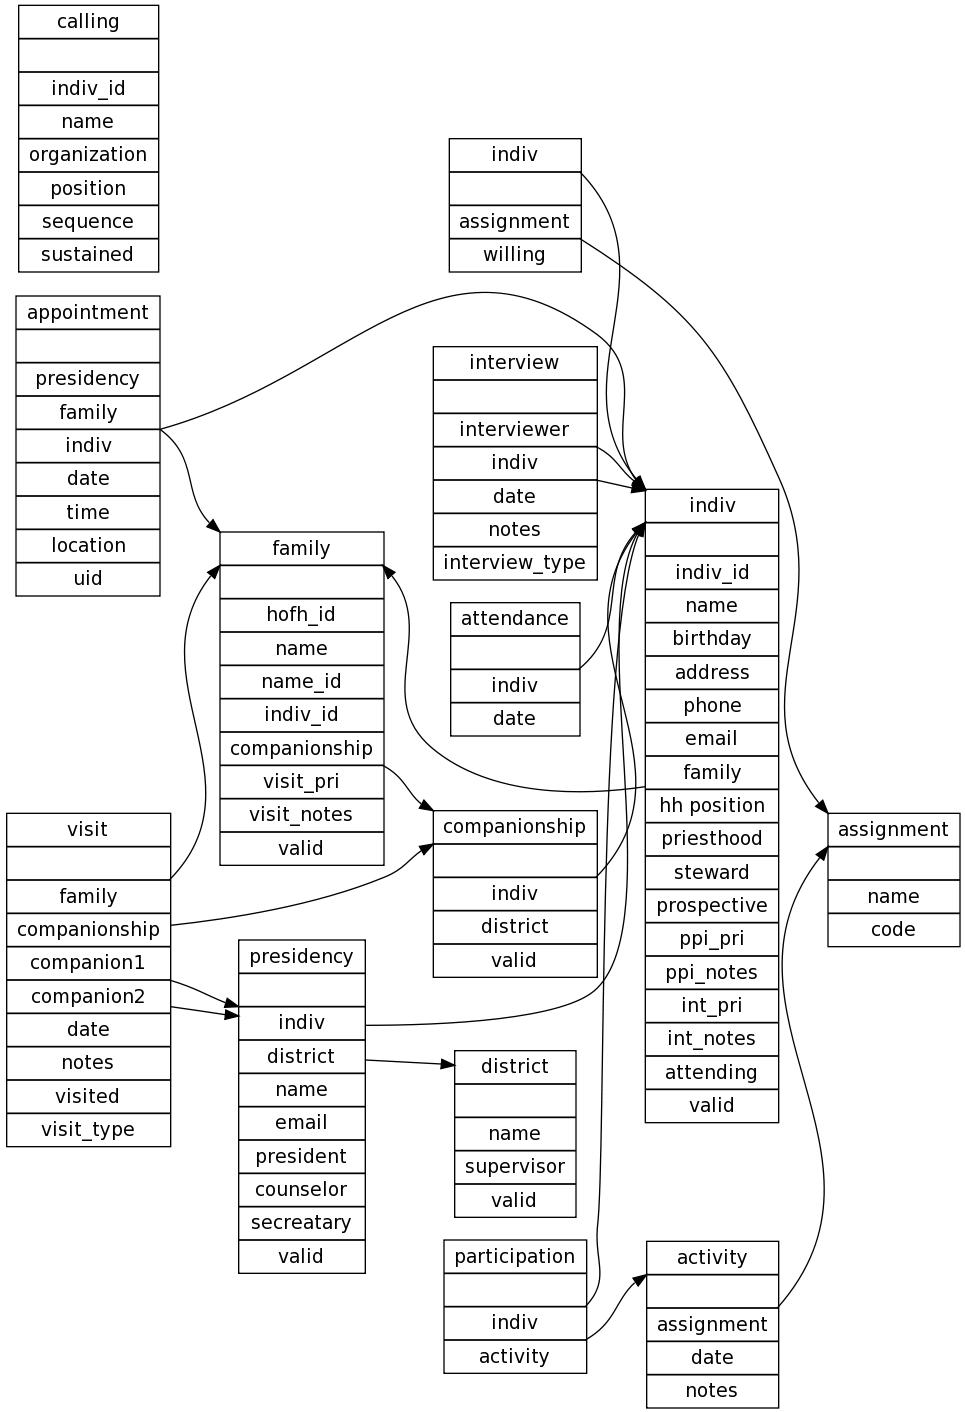
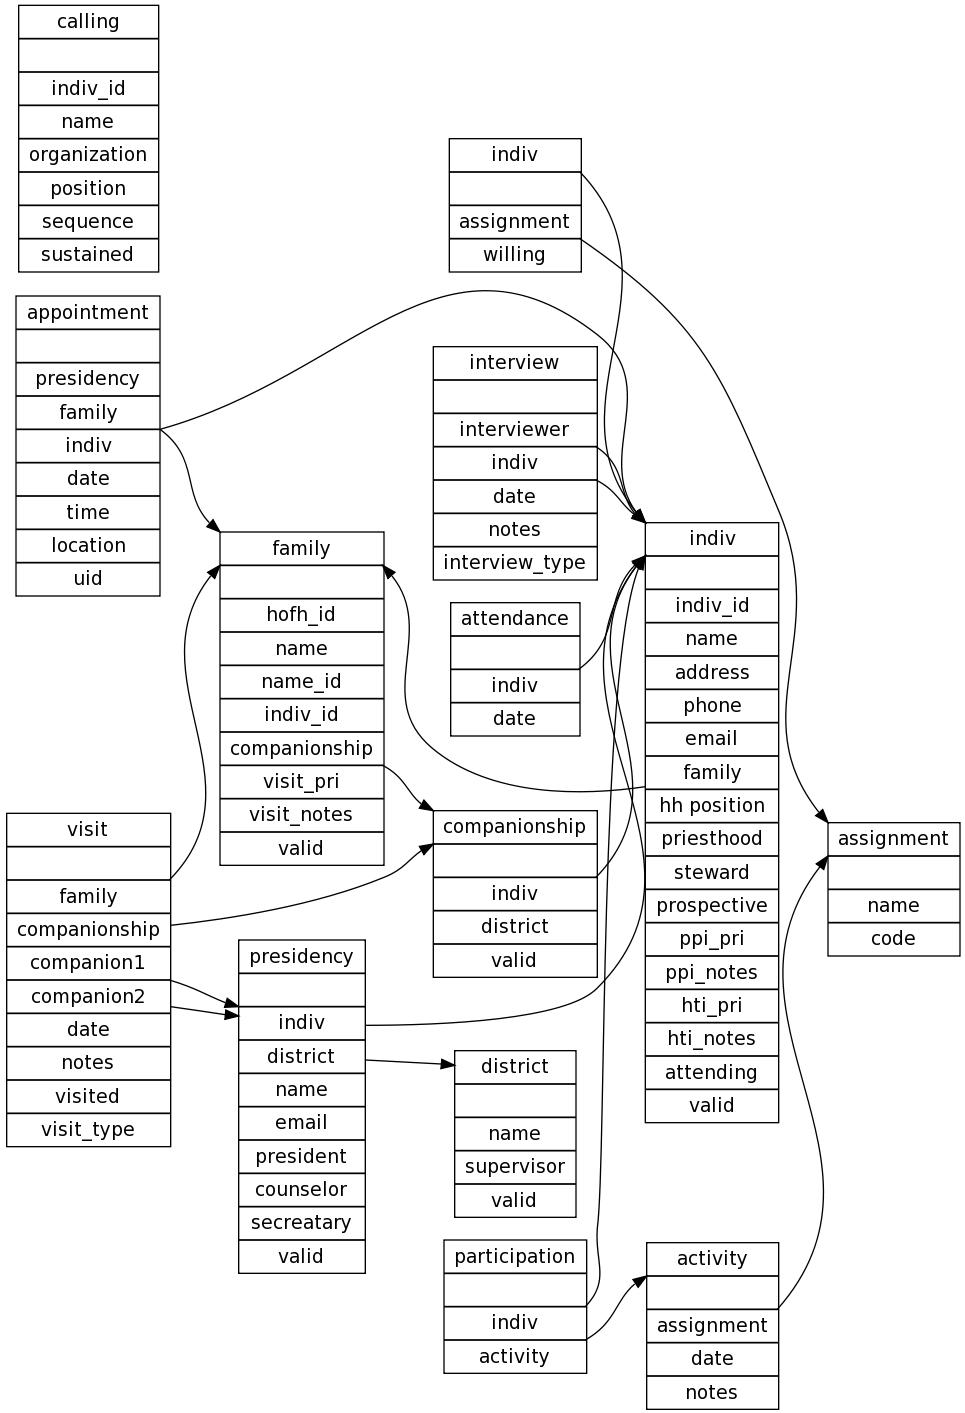
changed int_notes to hti_notes and int_pri to hti_pri in the tc_indiv table

diff --git a/inc/class.tc.inc.php b/inc/class.tc.inc.php
@@ -1748,17 +1748,17 @@ class tc
 			}
 
 			// Save any changes made to the int notes table
-			$new_data = get_var('int_notes',array('POST'));
+			$new_data = get_var('hti_notes',array('POST'));
 			foreach ($new_data as $entry) {
-				$int_notes = $entry['notes'];
+				$hti_notes = $entry['notes'];
 				$indiv_id = $entry['indiv_id'];
 				$indiv_name = $entry['indiv_name'];
-				$int_pri = $entry['pri'];
-				//print "int_notes: $int_notes indiv_name: $indiv_name <Br>";
+				$hti_pri = $entry['pri'];
+				//print "hti_notes: $hti_notes indiv_name: $indiv_name <Br>";
 				// Perform database save actions here
 				$this->db->query("UPDATE tc_indiv set " .
-				                 " int_notes='" . $int_notes . "'" .
-				                 ",int_pri='" . $int_pri . "'" .
+				                 " hti_notes='" . $hti_notes . "'" .
+				                 ",hti_pri='" . $hti_pri . "'" .
 				                 " WHERE indiv=" . $indiv_id,__LINE__,__FILE__);
 			}
 
@@ -1902,14 +1902,14 @@ class tc
 						$indiv_id = $this->db2->f('indiv');
 						$indiv_name = $this->db2->f('name');
 						$indiv_phone[$indiv_id] = $this->db2->f('phone');
-						$indiv_int_pri[$indiv_id] = $this->db2->f('int_pri');
-						$indiv_int_notes[$indiv_id] = $this->db2->f('int_notes');
+						$indiv_hti_pri[$indiv_id] = $this->db2->f('hti_pri');
+						$indiv_hti_notes[$indiv_id] = $this->db2->f('hti_notes');
 					}
 					$id = $indiv_id;
 					$name = $indiv_name;
 					$phone = $indiv_phone[$id];
-					$int_pri = $indiv_int_pri[$id];
-					$int_notes = $indiv_int_notes[$id];
+					$hti_pri = $indiv_hti_pri[$id];
+					$hti_notes = $indiv_hti_notes[$id];
 
 					// If the companionship has already had its quarterly interview,
 					// Skip the other companion in the companionship.
@@ -1917,7 +1917,7 @@ class tc
 						$completed_data.= "<tr bgcolor=". $this->t->get_var('tr_color2') ."><td title=\"$phone\"><a href=$link>$name</a></td>";
 						$completed_data.= "<td align=center>$phone</td>";
 						$completed_data.= "<td align=center><a href=".$link.">$date</a></td>";
-						$completed_data.= "<td align=left>$int_notes</td>";
+						$completed_data.= "<td align=left>$hti_notes</td>";
 						$completed_data.= '</tr>';
 						$tr_color2 = $this->nextmatchs->alternate_row_color($tr_color2);
 						$this->t->set_var('tr_color2',$tr_color2);
@@ -1948,10 +1948,10 @@ class tc
 						$table_data.= "<tr bgcolor=". $this->t->get_var('tr_color') ."><td title=\"$phone\"><a href=$link>$name</a></td>";
 						$table_data.= "<td align=center>$phone</td>";
 						$table_data.= "<td align=center>";
-						$table_data.= '<select name=int_notes['.$i.'][pri]>';
+						$table_data.= '<select name=hti_notes['.$i.'][pri]>';
 						foreach(range(0,6) as $num) {
 							if($num == 0) { $num = 1; } else {$num = $num*5; }
-							if($int_pri == $num) { 
+							if($hti_pri == $num) { 
 								$selected[$num] = 'selected="selected"'; 
 							} else { 
 								$selected[$num] = ''; 
@@ -1960,9 +1960,9 @@ class tc
 						}
 						$table_data.= '</select></td>';
 						$table_data.= "<td align=center>$date</td>";
-						$table_data.= '<td><input type=text size="50" maxlength="128" name="int_notes['.$i.'][notes]" value="'.$int_notes.'">';
-						$table_data.= '<input type=hidden name="int_notes['.$i.'][indiv_id]" value="'.$id.'">';
-						$table_data.= '<input type=hidden name="int_notes['.$i.'][indiv_name]" value="'.$name.'">';
+						$table_data.= '<td><input type=text size="50" maxlength="128" name="hti_notes['.$i.'][notes]" value="'.$hti_notes.'">';
+						$table_data.= '<input type=hidden name="hti_notes['.$i.'][indiv_id]" value="'.$id.'">';
+						$table_data.= '<input type=hidden name="hti_notes['.$i.'][indiv_name]" value="'.$name.'">';
 						$table_data.= '</td>';
 						$table_data.= '</tr>'."\n";
 						$i++;
@@ -1977,12 +1977,12 @@ class tc
 						$comps_with_quarterly_int++;
 						$int_completed=1;
 						$date = $this->db2->f('date');
-						$int_notes = $this->db2->f('notes');
-						if(strlen($int_notes) > 40) { $int_notes = substr($int_notes,0,40) . "..."; }
+						$hti_notes = $this->db2->f('notes');
+						if(strlen($hti_notes) > 40) { $hti_notes = substr($hti_notes,0,40) . "..."; }
 						$completed_data.= "<tr bgcolor=". $this->t->get_var('tr_color2') ."><td title=\"$phone\"><a href=$link>$name</a></td>";
 						$completed_data.= "<td align=center>$phone</td>";
 						$completed_data.= "<td align=center><a href=".$link.">$date</a></td>";
-						$completed_data.= "<td align=left>$int_notes</td>";
+						$completed_data.= "<td align=left>$hti_notes</td>";
 						$completed_data.= '</tr>';
 					}
 				}
